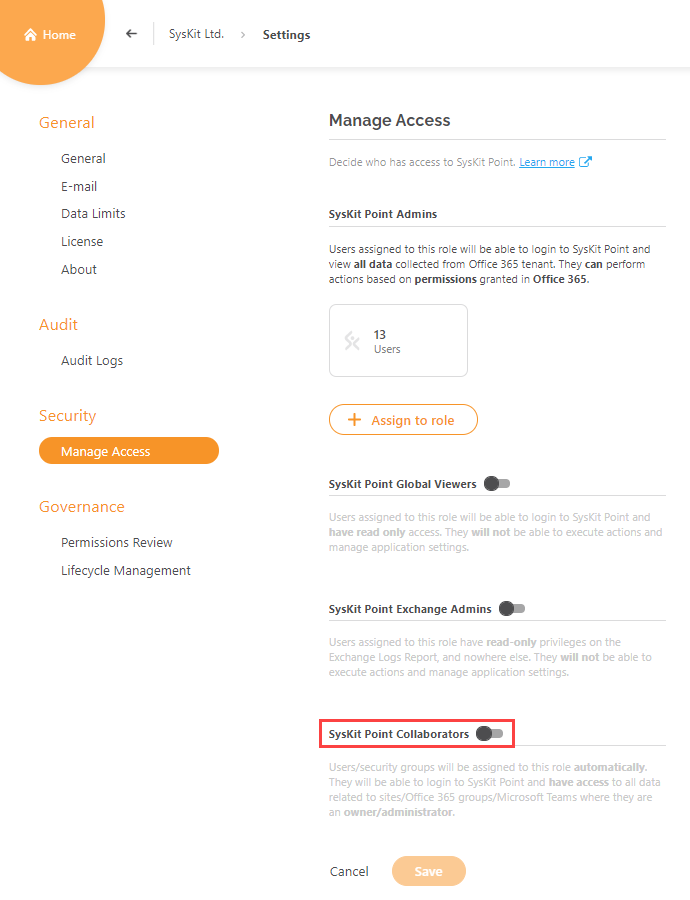
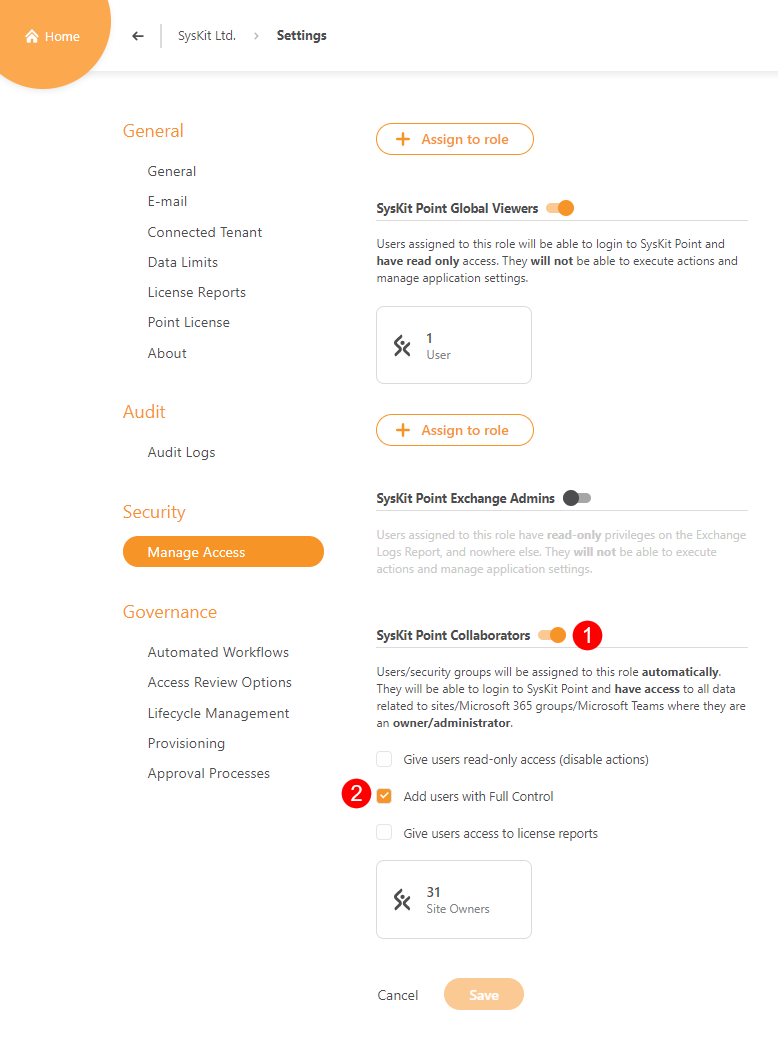
acess reviews articles updated

diff --git a/governance-and-automation/permissions-review/create-apply-access-review-policies.md b/governance-and-automation/permissions-review/create-apply-access-review-policies.md
@@ -1,131 +1,104 @@
 
 ---
-description: This article explains how to create Access Review policies and apply them to your Microsoft Teams, Microsoft 365 Groups, sites and OneDrive in SysKit Point.
+description: This article explains how to create Access Review policies and apply them to your Microsoft Teams, Microsoft 365 Groups, sites, and OneDrive in SysKit Point.
 ---
 
 
-# Create and Apply Access Review Policies**
+# Create and Apply Access Review Policies
 
-Access Review in SysKit Point is enabled through Access Review policies applied to Microsoft Teams, Microsoft 365 Groups, sites and OneDrive in SysKit Point.
+Access Review in SysKit Point is enabled through Access Review policies applied to Microsoft Teams, Microsoft 365 Groups, sites, and OneDrive in SysKit Point.
 
 Access Review policies in SysKit Point enable you to define the following settings of an Access Review:
-* **the scope of the Access Review** - you can choose to review content or membership, or both, decide if you're only interested in shared content and guest users, or maybe want to only see the content down to the folder level
-* **who should perform the review** - depending on the workspace type, you can select between various groups of users that have privileged access; for example, team owners, site admins, primary administrator, etc.
-* **the Access Review recurrence frequency** - not all workspaces in an Microsoft 365 environment are equally important, therefore you can choose to repeat the Access Review process once for the most important workspaces, or up to once in a year for the workspaces that are not frequently changed or used, or simply don't contain sensitive data
+* **the scope of the Access Review** - you can choose to review content or membership, or both, decide if you're only interested in shared content and guest users, or maybe want only to see the content down to the folder level
+* **who should perform the review** - depending on the workspace type, you can select between various groups of users with privileged access, such as team owners, site admins, primary administrators, etc.
+* **the Access Review recurrence frequency** - not all workspaces in a Microsoft 365 environment are equally important; therefore, you can choose to repeat the Access Review process once for the most important workspaces, or up to once in a year for the workspaces that are not frequently changed or used or don't contain sensitive data
 
-Once created, **policies need to be applied to Microsoft Teams**, **Microsoft 365 Groups**, **sites** and **OneDrive**, in order **to start the automated Access Review proces in SysKit Point**.
+Once created, **policies need to be applied to Microsoft Teams**, **Microsoft 365 Groups**, **sites**, and **OneDrive**, in order **to start the automated Access Review process in SysKit Point**.
 
-In the sections bellow, you can find detailed instructions on how to create and apply the Access Review policies in SysKit Point.
+In the sections below, you can find detailed instructions on creating and applying the Access Review policies in SysKit Point.
 
 ## Create Access Review Policy
 
 **To start creating Access Review policies**, navigate to **Settings** > **Governance** > **Automated Workflows**.
 
 By default, SysKit Point offers a predefined Access Review policy - **All users and shared files \(1\)**. 
-This policy is not applied to any resources and will not trigger an automated Access Review.
+{% hint style="warning" %}
+**Please note!** Predefined Access Review policy is not applied to any resources and will not trigger an automated Access Review.
+{% endhint %}
+
 Here you can choose to:
-* **edit the policy \(2\)** or
-* **delete the Policy \(3\)** 
+* **edit an existing policy \(2\)** or
+* **delete an existing policy \(3\)** 
+* **create a new policy \(4\)**
 
-![Automated Workflows - Default Access Review Policy](../../.gitbook/assets/create-access-review-policies_default-policy.png)
+![Automated Workflows Screen](../../.gitbook/assets/create-access-review-policies_default-policy.png)
 
-#TODO: CONTINUE HERE
+Start to create a new Access Review policy by clicking the **Create New Policy button (4)**. 
+The following dialog opens, enabling you to **choose the policy type**. 
 
-Let's edit the existing predefined policy. After clicking the **Edit Policy link \(2\)**, the **Editing Policy** dialog opens. The following review policy settings can be defined here:
+![Policy Type Selection](../../.gitbook/assets/create-access-review-policies_policy-type.png)
+**Click Access Review \(1\)** to continue. 
 
-* **Policy Name \(1\)**
-* **Memberships to review \(2\)** - you can choose between two options:
-  * **All**
-  * **Guests Only**
-* **Content to review \(3\)** - you can choose between two options:
-  * **All** 
-  * **External Only**
-* **Recurrence \(4\)** - set how often the review should be performed
-* **Content level to be reviewed \(5\)** - you can choose between the following options:
-  * **subsites**
-  * **document libraries & lists**
-  * **folders**
-  * **files & folders**
+The **Create New Policy** dialog opens where you can define the following Access Review options:
+* **Policy Name (1)**
+* **Access Review Recurrence Frequency (2)** - increments of 1 month are available, up to 12 months
+* **Memberships (3)** - when enabled, you can choose to review:
+  * **All Memberships** - Access Review shows all users from your organization as well as guest users
+  * **Guest User Membership** - Access Review shows Guest users only
+* **Content (4)** - when enabled, you can choose to review:
+  * **All Content** - Access Review shows all content shared with internal and external users
+  * **Externally Shared Content** - Access Review shows only the content shared with external users
+  * **Content Level (5)** - choose content level to review:
+    * **subsites**
+    * **document libraries**
+    * **folders**
+    * **files & folders**
+* **Description (6)** - shows summary info depending on selected options regarding memeberships (3) and content (4)
+* **Advanced Settings (7)** - define who will perform the access review 
+* **Save (8)** - click to Save the Access Review Policy when done with the confifuration
 
-![Automated Access Review Setup - Editing Policy](../../.gitbook/assets/enable-permissions-review_editing-policy.png)
+![Create New Policy Dialog](../../.gitbook/assets/create-access-review-policies_create-policy-dialog.png)
 
-Depending on your selection of what should be reviewed, the **descriptions \(6\)** on the right side of the dialog will change. Click **Save \(7\)** when you are done editing the policy.
+**Advanced Settings option (7)** enables you to define which groups of users are responsible for the Access Review. 
+The following groups can be defined based on the workspace type:
+* **SharePoint Site (1)**
+  * **Primary Admin/Owner**
+  * **Site Admins Group**
+  * **Site Owners** SharePoint Group
+* **Microsoft 365 Groups/Microsoft Teams (2)**
+  * **Team/Group Owners**
+  * **Site Admins Group**
+* **Microsoft Teams Private Channels (3)** 
+  * **Team/Group Owners**
+  * **Channel Owners**
+* **OneDrive (4)**
+  * **Primary Admin/Owner**
+  * **Site Admins Group**
 
-You can also **create a new review policy by clicking the Create Policy action \(1\)** in the right-side panel. The **New Access Review Policy dialog \(2\)** opens, giving you the possibility to define review policy options as described when editing.
+![Advanced Settings](../../.gitbook/assets/create-access-review-policies_advanced-settings.png)
 
-![Automated Access Review Setup - New Policy](../../.gitbook/assets/enable-permissions-review_new-policy.png)
+## Apply Policies
 
-To continue to the next step, click the **Next** button.
+To apply created Access Review Policies, navigate to **Settings** > **Governance** > **Automated Workflows** and click the **Apply Policy button (1)**.
 
-### **Apply Policies**
+![Apply Policy Button](../../.gitbook/assets/create-access-review-policies_apply-policy-button.png)
 
-On the **Apply Policies step**, you can apply created policies to your **Microsoft Teams**, **Microsoft 365 Groups**, **OneDrive**, and **sites**. To do so:
-
+The **Apply Policy report opens**, enabling you to apply created policies to your **Microsoft Teams**, **Microsoft 365 Groups**, **OneDrive**, and **sites**. To do so:
 * **select \(1\)** one or multiple resources; you can easily filter them by applied policies with the help of **top tiles \(2\)**
 * **click the Apply Policy action \(3\)**
 
-![Automated Access Review Setup - Apply Policy](../../.gitbook/assets/enable-permissions-review_apply-policies.png)
+![Apply Policy](../../.gitbook/assets/create-access-review-policies_apply-policy.png)
 
 The **Apply Access Review Policy** dialog opens where you can:
 
-* **choose one of your review policies \(3\)**
-* **confirm your selection by clicking the Save button \(4\)**
+* **choose one of your review policies \(1\)**
+* **confirm your selection by clicking the Save button \2\)**
 
-![Automated Access Review Setup - Apply Policy](../../.gitbook/assets/enable-permissions-review_apply-policy-dialog.png)
+![Apply Policy Dialog](../../.gitbook/assets/create-access-review-policies_apply-policy-dialog.png)
 
-Once you're done assigning policies to **Microsoft Teams**, **Microsoft 365 Groups**, **OneDrive**, and **sites,** click the **Next** button to continue to the next step.
+## Next Steps
 
-### **Manage Reviewers**
-
-The **Manage Reviewers step** enables you to define users responsible for the Access Review of a **Microsoft Team**, **Microsoft 365 Group**, **OneDrive**, or a **site**. Here, you can:
-
-* **Select one or multiple users \(1\)**
-* **Remove one or multiple users from reviewers \(2\)**
-* **Manage Admins or Owners \(3\)**
-* **Filter out resources without reviewers \(4\)** or otherwise filter the grid with the help of top tiles
-* **Switch the view \(5\)** - choose between two options:
-  * **Show by Content** - root node is a resource with all reviewers shown as child nodes
-  * **Show by Users** - root node is a user, with all resources where he is a reviewer shown as child nodes
-* **Find the number of active reviewers \(6\)** on all **Microsoft Teams**, **Microsoft 365 Groups**, **OneDrive**, and **sites**
-* **View users removed from reviewers \(7\)** - you can recognize them by the **Not Reviewing** status
-
-![Automated Access Review Setup - Manage Reviewers](../../.gitbook/assets/enable-permissions-review_manage-reviewers.png)
-
-Click **Next \(8\)** to navigate to the next step.
-
-### **Review Options**
-
-{% hint style="warning" %}
-**Please note!** Review options will apply to all resources included in the Automated Access Review, regardless of the applied policy.
-{% endhint %}
-
-Here you can:
-
-* **Set a default policy that SysKit Point will apply \(1\)** when a new **Microsoft Team**, **Microsoft 365 Group**, **OneDrive**, or a **site** is created
-* **Define the starting date for Automated Access Review \(2\)**
-* **Set the number of workdays \(3\)** a reviewer has to complete the Access Review task
-* **Enable or disable \(4\)** sending of e-mail reminders to reviewers three workdays before the Access Review task's due date
-
-![Automated Access Review Setup - Review Options](../../.gitbook/assets/enable-permissions-review_review-options.png)
-
-Click the **Next** button to navigate to the **Summary step**.
-
-### **Summary**
-
-The last step gives you an overview of:
-
-* **applied policies \(1\)**
-* **selected resources \(2\)**
-* **selected reviewers \(3\)**
-* **defined review options \(4\)**
-
-![Automated Access Review Setup - Summary](../../.gitbook/assets/enable-permissions-review_summary.png)
-
-Click the **Finish button \(5\)** to close the Access Review Setup wizard.
-
-{% hint style="success" %}
-Once you complete the Access Review Wizard, you can **access all of the above-mentioned reports and Access Review options from the Access Review Settings screen** and customize them further to fit your specific needs.
-{% endhint %}
-
-Now that everything is defined, the Access Review will start automatically. To learn all about the Automated Access Review in SysKit Point, visit the [following article](permissions-review.md).
-
+Once you're done assigning policies to **Microsoft Teams**, **Microsoft 365 Groups**, **OneDrive**, and **sites,** you can:
+* [define who will perform the Access Review in greater detail](access-review-options.md#manage-reviewers) by removing specific users from reviewers
+* [configure general Access Review options](access-review-options.md#manage-reviewers) applied to all Access Review Policies
+* [customize Access Review e-mail](../../configuration/customize-emails.md#access-review-settings)

diff --git a/governance-and-automation/permissions-review/access-review-options.md b/governance-and-automation/permissions-review/access-review-options.md
@@ -1,0 +1,53 @@
+---
+description: This article explains how to customize additional Access Review options applied to all Access Review policies.
+---
+
+# Access Review Options
+
+To start with the configuration, navigate to **Settings** > **Governance** > **Access Review Options**
+Here, you can find 3 sections:
+* **Manage Reviewers**
+* **Review Options**
+* **Customize E-mail**
+
+Access Review e-mail customization is described in the [following article](../../configuration/customize-emails.md#access-review-settings).
+
+## Manage Reviewers
+
+The **Manage Reviewers report** enables you to define users responsible for the Access Review of a **Microsoft Team**, **Microsoft 365 Group**, **OneDrive**, or a **site**. To open the report, click the **Edit Reviewers (1)** tile.
+
+![Access Review Options - Edit Reviewers](../../.gitbook/assets/access-review-options_edit-reviewers.png)
+
+The **Manage Reviewers report** opens, where you can:
+
+* **Select one or multiple users \(1\)**
+* **Remove one or multiple users from reviewers \(2\)**
+* **Manage Admins or Owners \(3\)**
+* **Filter out resources without reviewers \(4\)** or otherwise filter the grid with the help of top tiles
+* **Switch the view \(5\)** - choose between two options:
+  * **Show by Content** - root node is a resource with all reviewers shown as child nodes
+  * **Show by Users** - root node is a user, with all resources where he is a reviewer shown as child nodes
+* **Find the number of active reviewers \(6\)** on all **Microsoft Teams**, **Microsoft 365 Groups**, **OneDrive**, and **sites**
+* **View users removed from reviewers \(7\)** - you can recognize them by the **Not Reviewing** status
+
+![Automated Access Review Setup - Manage Reviewers](../../.gitbook/assets/access-review-options_manage-reviewers.png)
+
+## Review Options
+
+{% hint style="warning" %}
+**Please note!** Review options will apply to all resources included in the Automated Access Review process, regardless of the applied policy.
+{% endhint %}
+
+Here you can:
+
+* **Define the starting date for the Automated Access Review process\(1\)**
+* **Set the number of workdays \(2\)** a reviewer has to complete the Access Review task
+* **Enable or disable \(3\)** sending of e-mail reminders to reviewers three workdays before the Access Review task's due date
+
+![Automated Access Review Setup - Review Options](../../.gitbook/assets/access-review-options_review-options.png)
+
+## Next Steps
+
+Now that everything is defined, the **Access Review will start automatically**. 
+To learn how to perform an Access Review in SysKit Point, visit the [following article](permissions-review.md).
+

diff --git a/governance-and-automation/permissions-review/enable-permissions-review.md b/governance-and-automation/permissions-review/enable-permissions-review.md
@@ -72,7 +72,10 @@ Click the **Save** button once you confirm you received the test e-mail.
 
 ## Enable SysKit Point Collaborators
 
-To enable site owners to perform the Access Review on their sites, you need to enable them to access SysKit Point. To do so, navigate to the **Settings** &gt; **Security** &gt; **Manage Access** screen, and **click the toggle to enable the SysKit Point Collaborators role**. Site owners can access SysKit Point to manage their sites and review permissions when the role is enabled.
+To enable Teams and Groups owners and site administrators to perform the Access Review on their sites, you need to enable them to access SysKit Point. 
+To do so, navigate to the **Settings** &gt; **Security** &gt; **Manage Access** screen. Here you should:
+* **click the toggle to enable the SysKit Point Collaborators role (1)** - this will allow Teams owners, Group owners, and site administrators to access SysKit Point and to manage their workspaces
+* **check the Add users with Full Control option (2)** if you want to enable users with full control privileges to access SysKit Point; **this is needed in case you want to enable users in the Site Owners SharePoint group to perform access reviews**
 
 ![Manage Access Settings screen](../../.gitbook/assets/enable-permissions-review_manage-access-settings.png)
 

diff --git a/SUMMARY.md b/SUMMARY.md
@@ -49,6 +49,7 @@
   * [Access Review](governance-and-automation/permissions-review/README.md)
     * [Enable Automated Access Review](governance-and-automation/permissions-review/enable-permissions-review.md)
     * [Create and Apply Access Review Policies](governance-and-automation/permissions-review/create-apply-access-review-policies.md)
+    * [Modify Access Review Options](governance-and-automation/permissions-review/access-review-options.md)
     * [Perform Access Review in SysKit Point](governance-and-automation/permissions-review/permissions-review.md)
     * [Monitor Access Review in SysKit Point](governance-and-automation/permissions-review/monitor-permissions-review.md)
     * [Manually Request Access Review in SysKit Point](governance-and-automation/permissions-review/manually-request-permissions-review.md)
